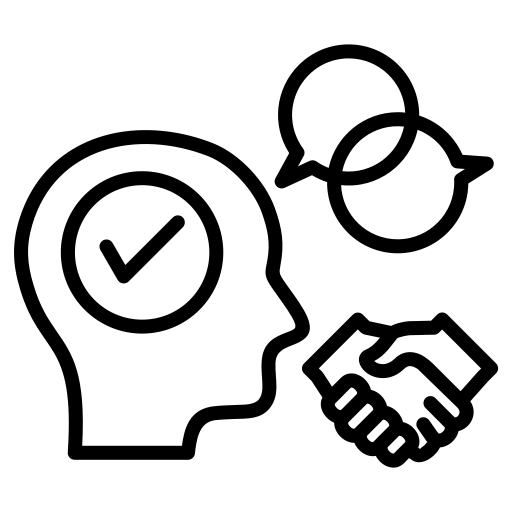
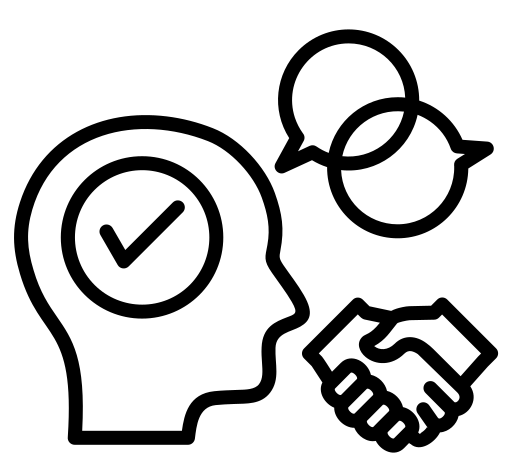
fix

diff --git a/index.html b/index.html
@@ -614,22 +614,22 @@
                     <br>
                     <h3 data-pt="🚀 Habilidades Pessoais">🚀 Soft Skills</h3>
                     <h4>
-                        <div class="w3-hide-medium w3-hide-large">
+                        <div class="w3-hide-large">
                             <ul>
-                                <li data-pt="">As a software engineering student, I developed skills such as <b>problem-solving</b>, <b>critical thinking</b>, and <b>attention to detail</b></li>
-                                <li data-pt="">As a private tutor, I developed skills such as <b>communication</b> and <b>empathy</b></li>
-                                <li data-pt="">As a scout for 9 years, I developed skills such as <b>teamwork</b> and <b>adaptability</b></li>
+                                <li data-pt="Como estudante de engenharia informática, desenvolvi habilidades como <b>resolução de problemas</b>, <b>pensamento crítico</b> e <b>atenção ao detalhe</b>.">As a software engineering student, I developed skills such as <b>problem-solving</b>, <b>critical thinking</b>, and <b>attention to detail</b></li>
+                                <li data-pt="Como explicadora privada, desenvolvi habilidades como <b>comunicação</b> e <b>empatia</b>.">As a private tutor, I developed skills such as <b>communication</b> and <b>empathy</b></li>
+                                <li data-pt="Como escuteira durante 9 anos, desenvolvi habilidades como <b>trabalho em equipe</b> e <b>adaptabilidade</b>.">As a scout for 9 years, I developed skills such as <b>teamwork</b> and <b>adaptability</b></li>
                             </ul>
                         </div>
-                        <div class="w3-hide-small">
+                        <div class="w3-hide-small w3-hide-medium">
                         <div class="w3-row">
-                            <div class="w3-col" style="width: auto"><img loading="lazy" src="assets/img/soft_skills.png" style="width: 200px;" alt="Soft Skills"></div>
+                            <div class="w3-col" style="width: auto" data-pt='<br><img class="dark" loading="lazy" src="assets/img/soft_skills.png" style="width: 180px;" alt="Soft Skills">'><img class="dark" loading="lazy" src="assets/img/soft_skills.png" style="width: 180px;" alt="Soft Skills"></div>
                             <div class="w3-rest">
                                 <div class="w3-margin-left">
                                     <ul>
-                                        <li data-pt="">As a software engineering student, I developed skills such as <b>problem-solving</b>, <b>critical thinking</b>, and <b>attention to detail</b></li>
-                                        <li data-pt="">As a private tutor, I developed skills such as <b>communication</b> and <b>empathy</b></li>
-                                        <li data-pt="">As a scout for 9 years, I developed skills such as <b>teamwork</b> and <b>adaptability</b></li>
+                                        <li data-pt="Como estudante de engenharia informática, desenvolvi habilidades como <b>resolução de problemas</b>, <b>pensamento crítico</b> e <b>atenção ao detalhe</b>.">As a software engineering student, I developed skills such as <b>problem-solving</b>, <b>critical thinking</b>, and <b>attention to detail</b>.</li>
+                                        <li data-pt="Como explicadora privada, desenvolvi habilidades como <b>comunicação</b> e <b>empatia</b>.">As a private tutor, I developed skills such as <b>communication</b> and <b>empathy</b>.</li>
+                                        <li data-pt="Como escuteira durante 9 anos, desenvolvi habilidades como <b>trabalho em equipe</b> e <b>adaptabilidade</b>.">As a scout for 9 years, I developed skills such as <b>teamwork</b> and <b>adaptability</b>.</li>
                                     </ul>
                                 </div>
                             </div>
